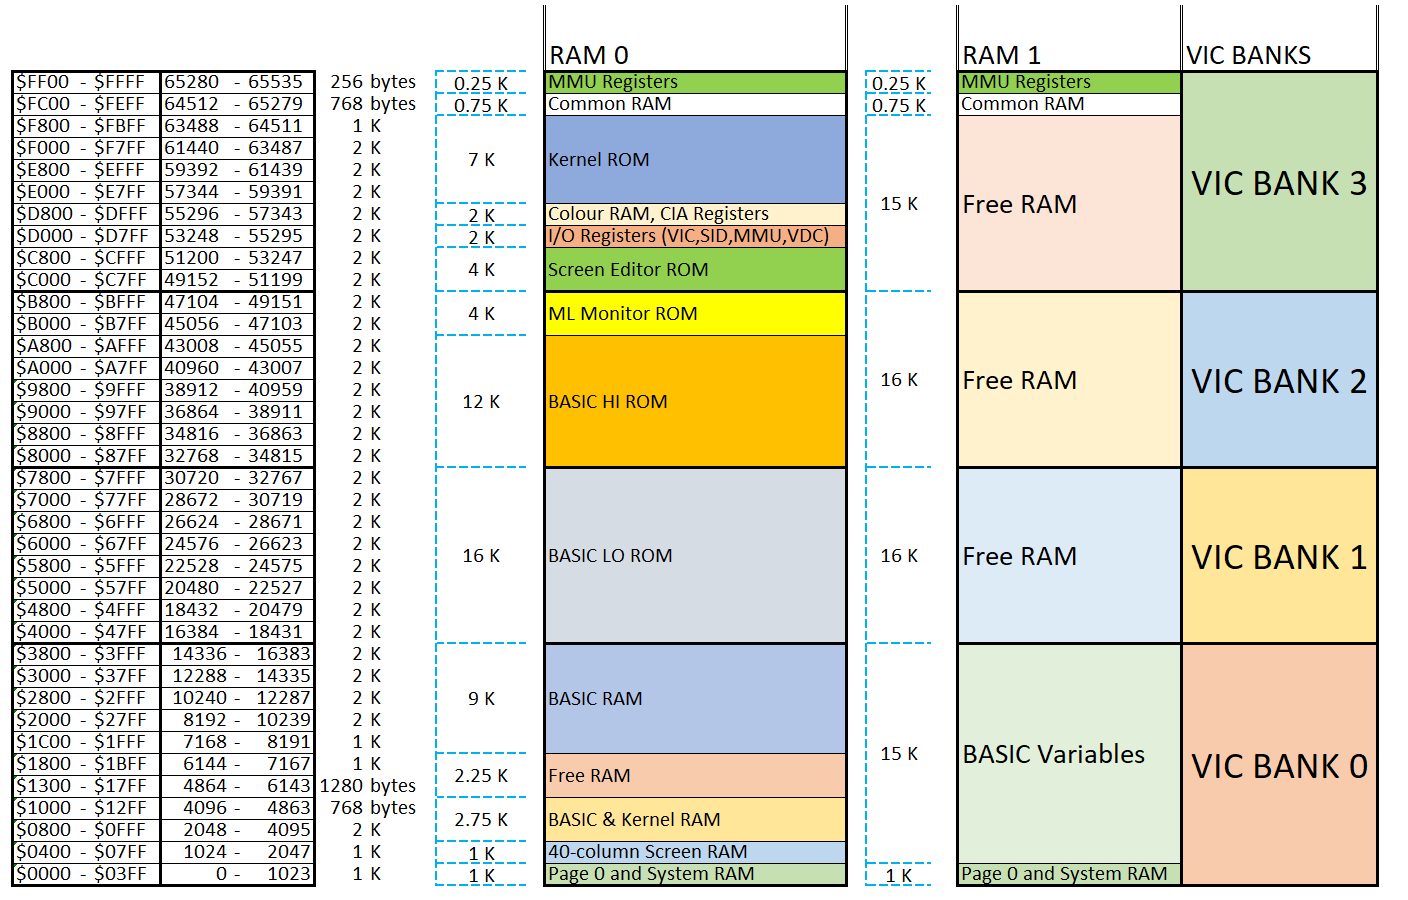
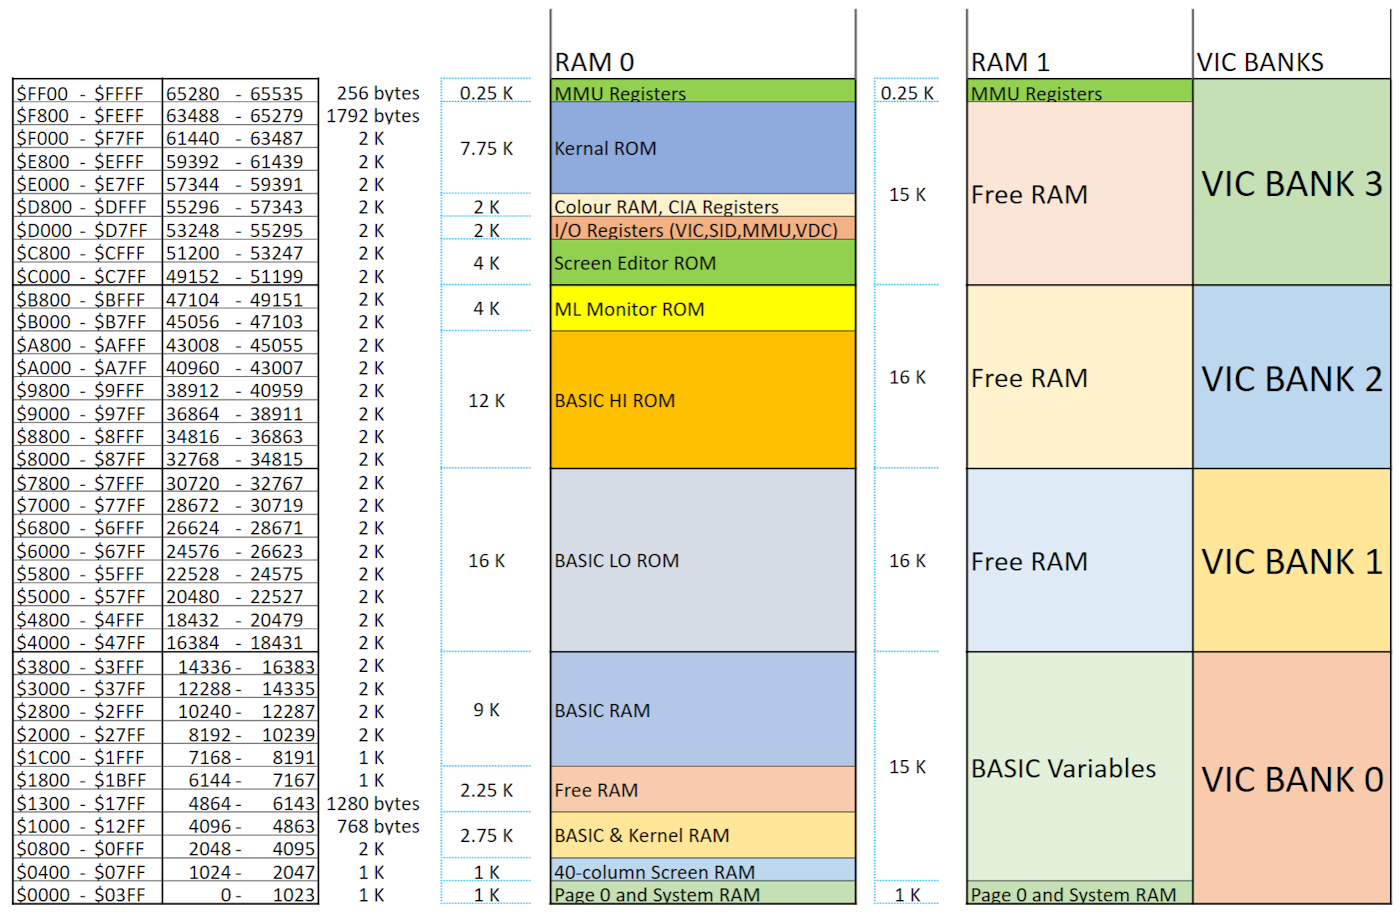
Updated memory map and fixed index

Changed region(s): [[0.0, 0.0, 1.0, 0.9956]]

diff --git a/index.md b/index.md
@@ -10,8 +10,6 @@ title: Index
 * [Memory map and layout](MemoryMap)
 * [Startup sequence](StartupSequence)
 
-All references have been eliminated and are being reviewed to verify that the user license complies with the proposed contents. The contents will gradually be reinserted after the necessary checks.
-
 ### Instruction set
 All references have been eliminated and are being reviewed to verify that the user license complies with the proposed contents. The contents will gradually be reinserted after the necessary checks.
 
